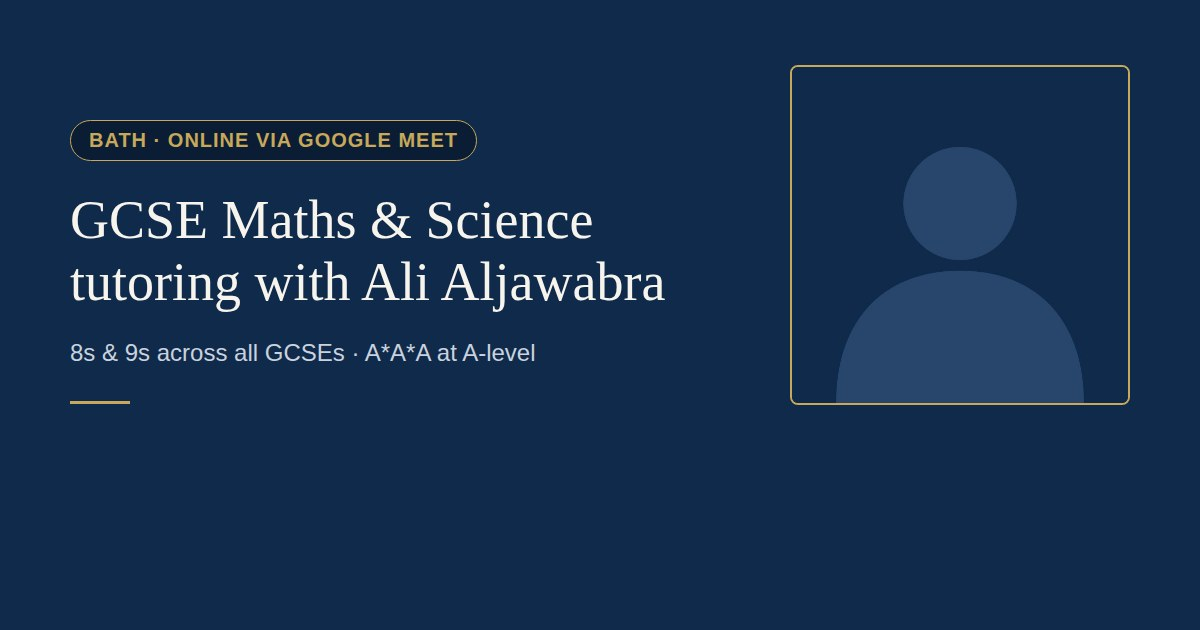
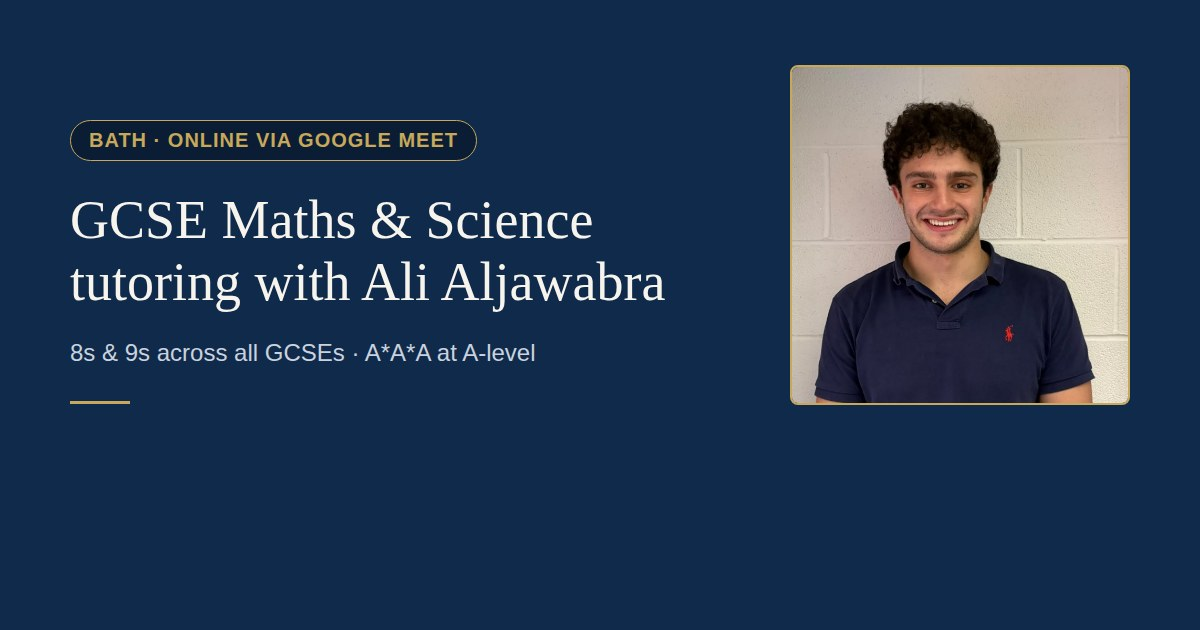
Add the real headshot: plain background, natural smile
Replaces the placeholder silhouette with the new plain-wall photo,
cropped to head and shoulders. Restores the descriptive alt text now
that it is an actual portrait again, and regenerates the social card.

Claude-Session: https://claude.ai/code/session_01GTkSo4JFgUHaUwwpUcKvGm

Changed region(s): [[0.6475, 0.0905, 0.9558, 0.6635]]

diff --git a/docs/index.html b/docs/index.html
@@ -370,7 +370,7 @@
       </div>
     </div>
     <div class="hero-photo">
-      <img src="assets/ali-aljawabra.jpg" alt="" width="300" height="300" loading="eager">
+      <img src="assets/ali-aljawabra.jpg" alt="Portrait of Ali Aljawabra" width="300" height="300" loading="eager">
     </div>
   </div>
 </header>
